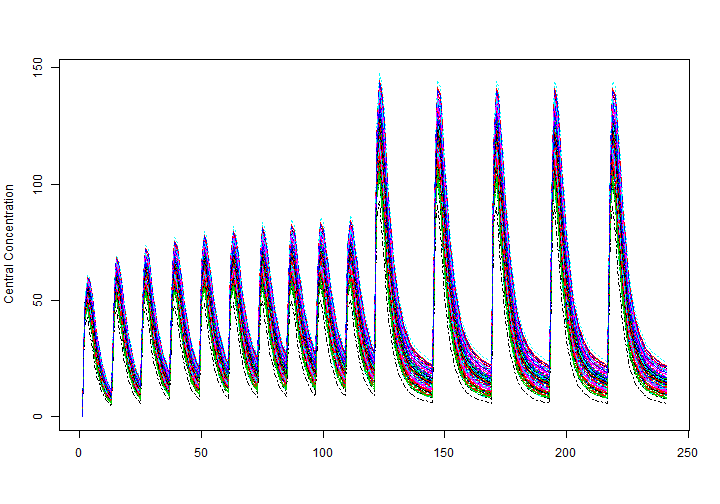
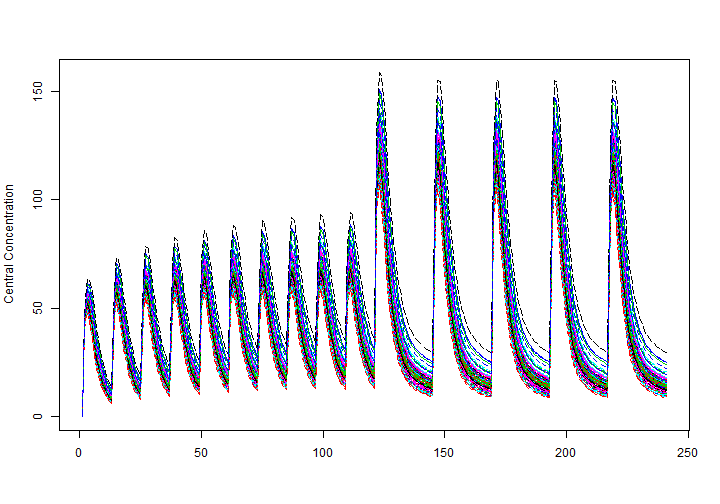
Make updating the readme part of the pakage update
Also add install instructions to README.md

diff --git a/README.md b/README.md
@@ -13,6 +13,89 @@
 
 ***
 
+`RxODE` installation under R for Windows
+========================================
+
+These notes briefly describe steps to properly install `RxODE` and to
+ensure `Rtools` (http://cran-r.project.org/bin/windows/Rtoos) are properly 
+configured to avoid compilation issues during the use of `RxODE`. 
+
+In a nutshell, installing `RxODE` is very straight forwad, but installing
+and configuring `Rtools` is a bit more delicate and you need to 
+carefully follow the instructions in the "R Installation and Adminstration" 
+manual, in particular Section 6.3, and Appendix D "The Windows Toolset". 
+We point out a couple of details worth extra attention.  Please read on.
+
+Steps:
+------
+
+1. Install the appropriate `Rtools` for your R for Windows version,
+   e.g., `Rtools` 3.2 for R versions 3.1.x through 3.2.x (for full details
+   see http://cran.r-project.org/bin/windows/Rtools). A couple of 
+   important details:
+
+   * When installing `Rtools`, in the "Select Components" dialog box, 
+     you may select the default "Package authoring installation".
+
+   * In the "Select Additional Tasks" dialog window, check the
+     option "Edit the system PATH".  This is important to be able to
+     locate the C, Fortran compilers and other tools needed during 
+     the use of `RxODE`.  
+
+   * A simple way to test whether `Rtools` was properly installed is
+     to compile the `hello.c` program.  Simply open a new MSDOS command 
+     window, create a text file `hello.c` and compile it as follows:
+   
+     ```
+     C:\hello> type hello.c
+     #include<stdio.h>
+     
+     void main(int argc, char **argv)
+     {
+         printf("Hello World!\n");
+     }
+
+     C:\hello> gcc -o hello hello.c
+
+     C:\hello> .\hello
+     Hello World!
+     ```
+
+     If you get the error `gcc: error: CreateProcess: No such file or directory`     then you know `Rtools` was not properly installed, in particular,
+     it did not update your system `PATH` variable.
+
+2.  Obtain the `RxODE` package, either from github or CRAN.  The 
+    installation requires use of the gcc compiler, so you'll know if Step 1 
+    was successfully executed.
+
+    * CRAN. Use the usual method for installing pacakges from CRAN.
+
+    * GitHub. First install the `devtools` package (if needed) and 
+      then `RxODE` from GitHub.  You may want to avoid using a library 
+      folder that has spaces in its name (see question 4.1 in the 
+      "R for Windows FAQ" and the pointers therein).  As of `RxODE`
+      version 0.5-1, we've been able to test installations on folder with 
+      spaces in their name, but you may want to be on the safe side.
+      
+      ``` 
+      install.packages("devtools")
+      library("devtools", lib = "C:/Rlib")
+      install_github("hallowkm/RxODE/RxODE")
+      ```
+
+3. Test the `RxODE` installation:
+
+    ``` 
+    library("RxODE", lib = "C:/Rlib")
+    demo("demo1","RxODE")
+    ```
+
+If the demo runs without error, click on the plot window and see if a 
+new plot comes up each time. If so, `RxODE` has been installed correctly.
+
+See `browseVignettes("RxODE")` for an extended example on using 
+`RxODE` for simulations.
+
 #### Introduction
 `RxODE` is an R package that facilitates simulation with ODE models in
 R. It is designed with pharmacometrics models in mind, but can be
@@ -222,12 +305,12 @@ head(theta.all)
 
 ```
 ##         KA       CL   V2    Q  V3 Kin Kout EC50
-## [1,] 0.294 14.94092 40.2 10.5 297   1    1  200
-## [2,] 0.294 21.23740 40.2 10.5 297   1    1  200
-## [3,] 0.294 22.83447 40.2 10.5 297   1    1  200
-## [4,] 0.294 17.67582 40.2 10.5 297   1    1  200
-## [5,] 0.294 26.37328 40.2 10.5 297   1    1  200
-## [6,] 0.294 17.19103 40.2 10.5 297   1    1  200
+## [1,] 0.294 18.59835 40.2 10.5 297   1    1  200
+## [2,] 0.294 24.05499 40.2 10.5 297   1    1  200
+## [3,] 0.294 20.10939 40.2 10.5 297   1    1  200
+## [4,] 0.294 13.41064 40.2 10.5 297   1    1  200
+## [5,] 0.294 23.98640 40.2 10.5 297   1    1  200
+## [6,] 0.294 16.39019 40.2 10.5 297   1    1  200
 ```
 
 Each subproblem can be simulated by using an explicit loop (or the `apply()`
